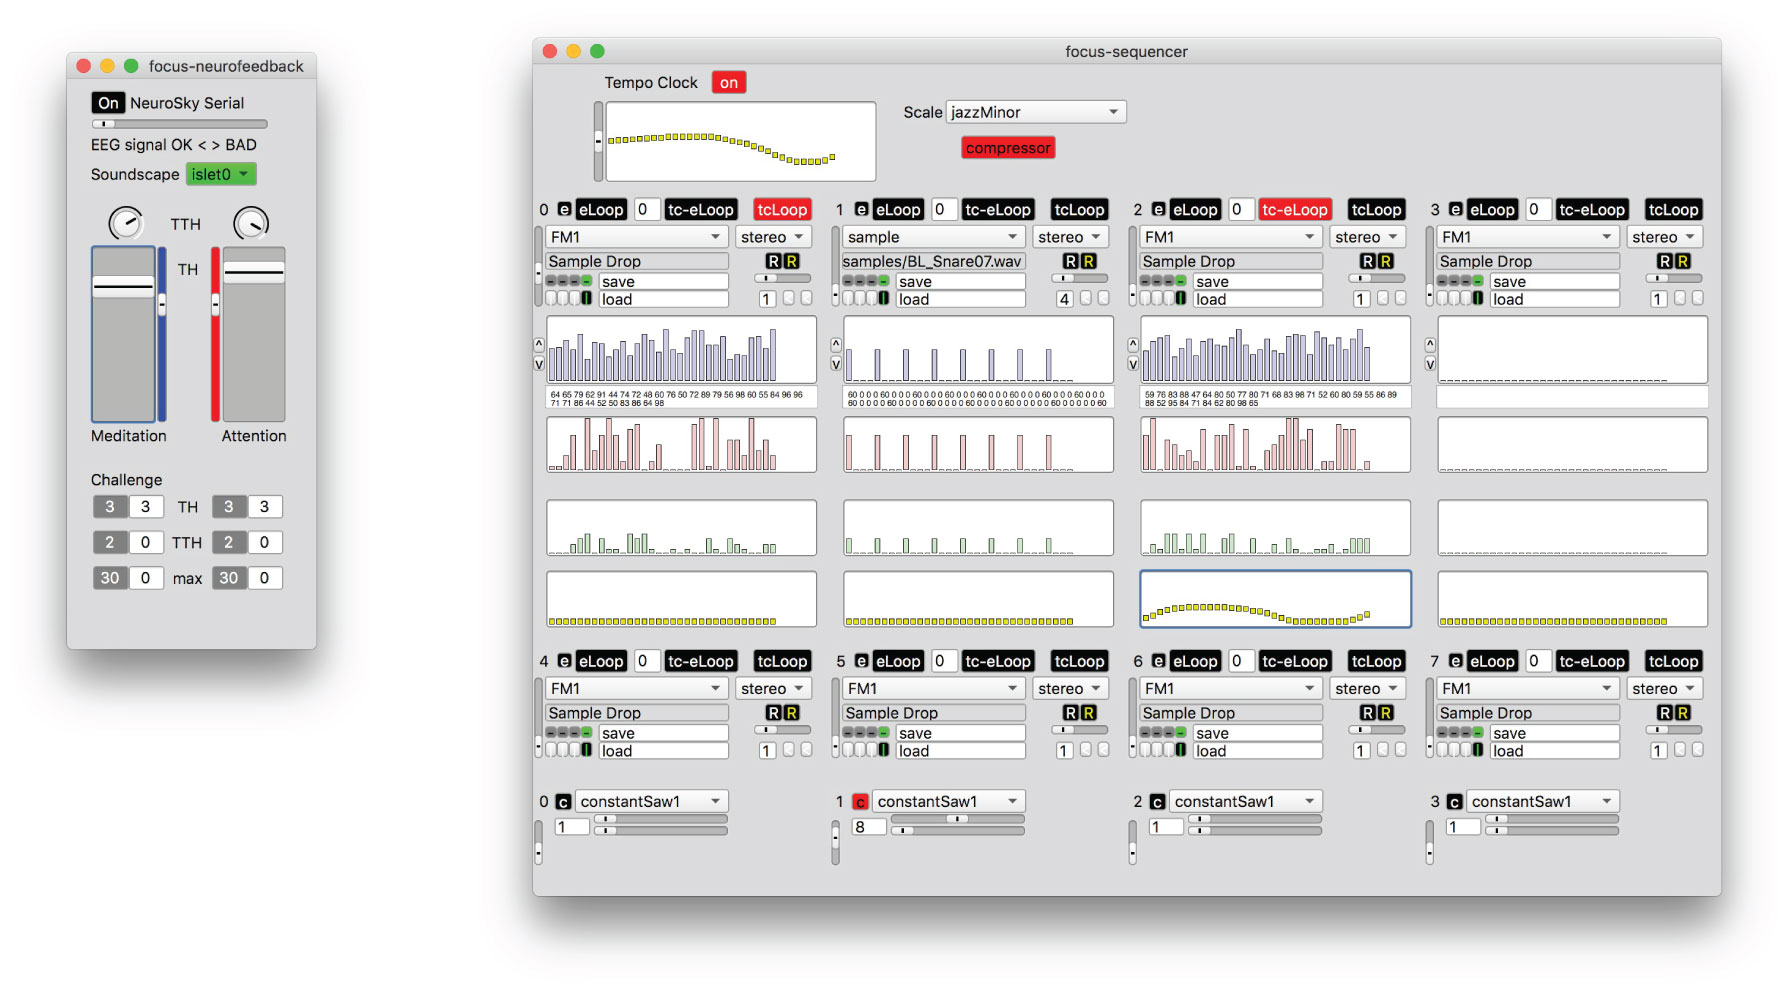
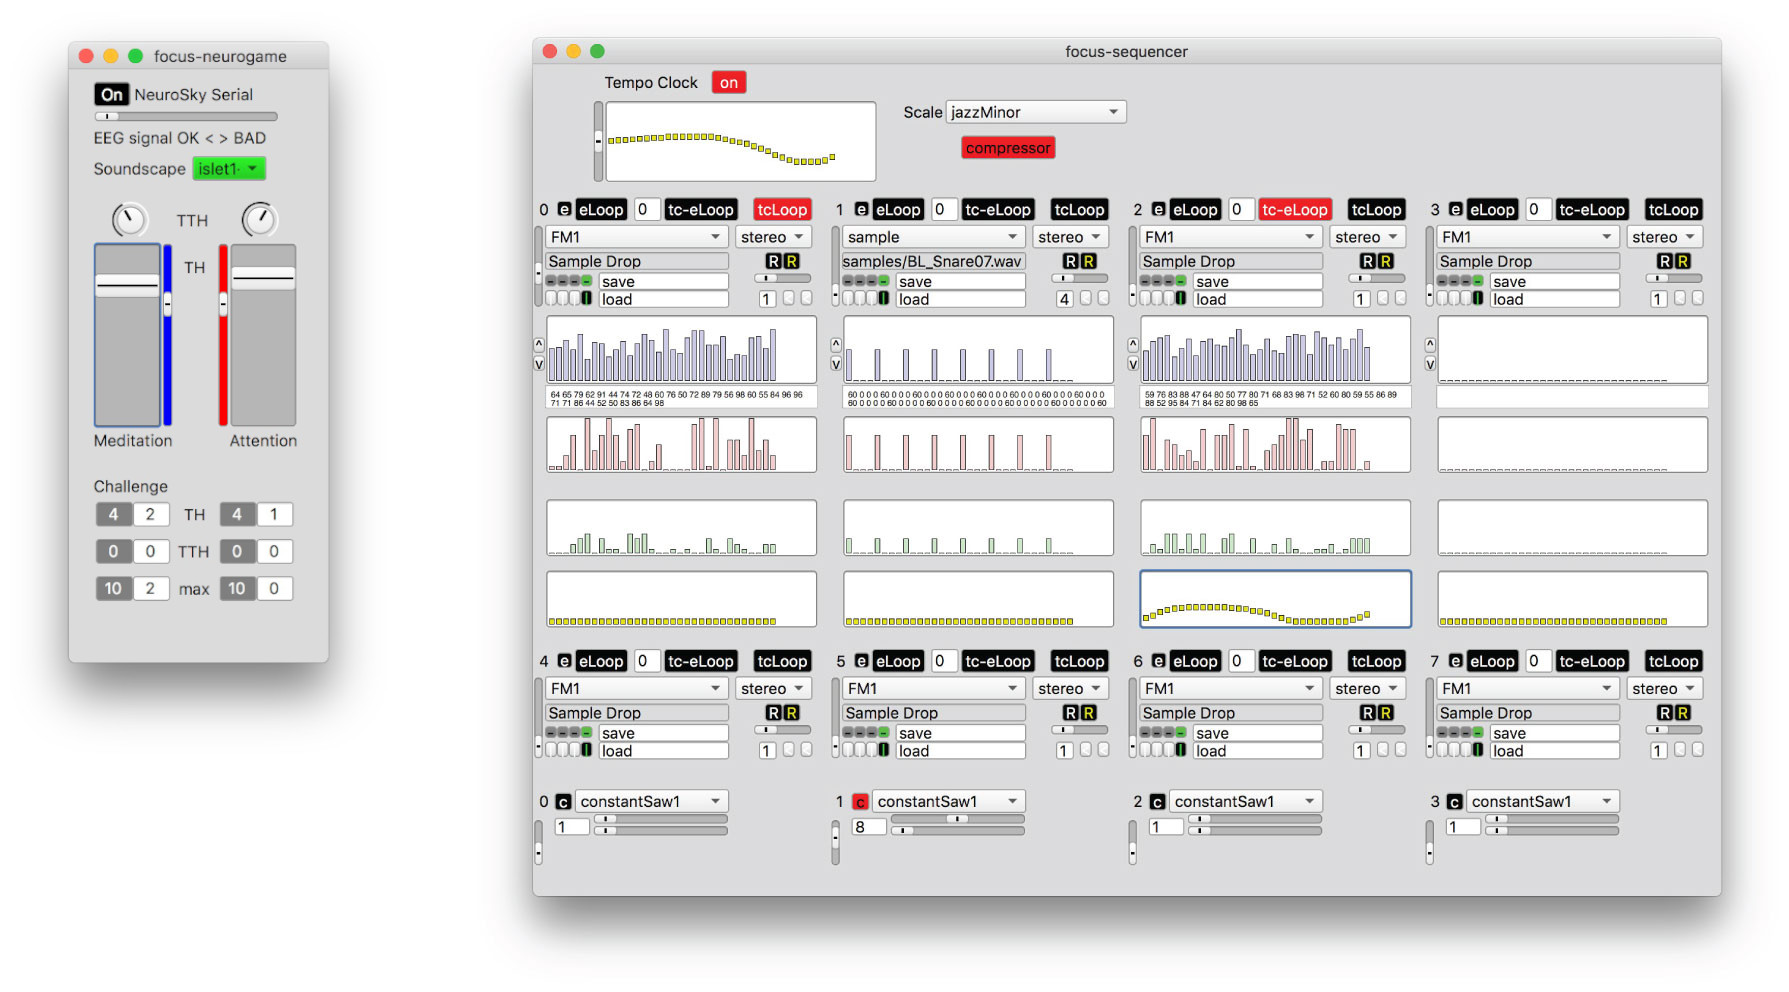
neurogame
name change from neurofeedback to neurogame

Changed region(s): [[0.0307, 0.0312, 0.2152, 0.7188]]

diff --git a/README.md b/README.md
@@ -1,10 +1,10 @@
-# focus-nf-neurosky-supercollider
+# focus-neurogame-neurosky-supercollider
 
 Neurofeedback with NeuroSky and SuperCollider. An audio neurogame.
 
 Two parts:
 
-1. focus-neurofeedback
+1. focus-neurogame
 2. focus-sequencer
 
 ![screenshot](screenshot-focus-interface.jpg?raw=true "focus-nf")
@@ -14,7 +14,7 @@ Two parts:
 ## log
 * 0.2.1
   - Fredik adds synths suggestions;
-  - some minor changes (manual update): new mix in islets, changed reward tasks; 
+  - some minor changes (manual update): new mix in islets, changed reward tasks;
 * 0.2
   - added new mapping to islet1;
   - user can change TTH as well on GUI;
